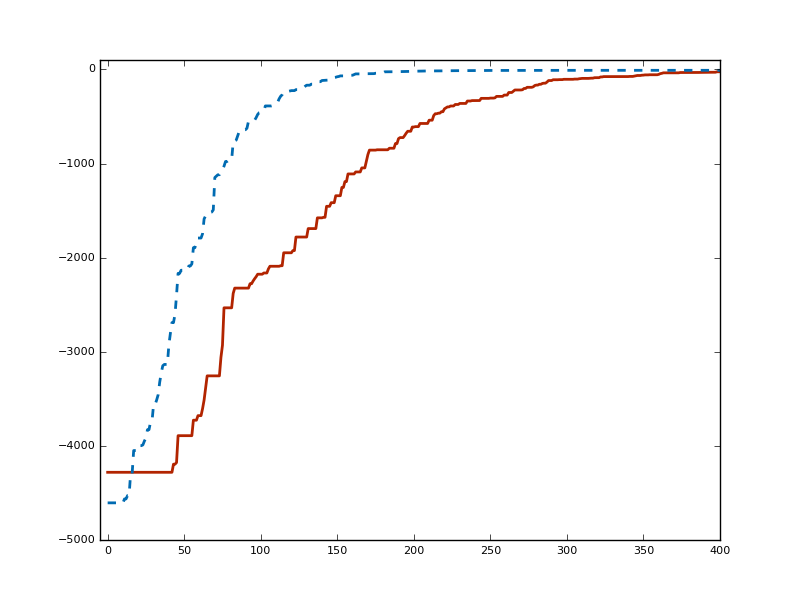
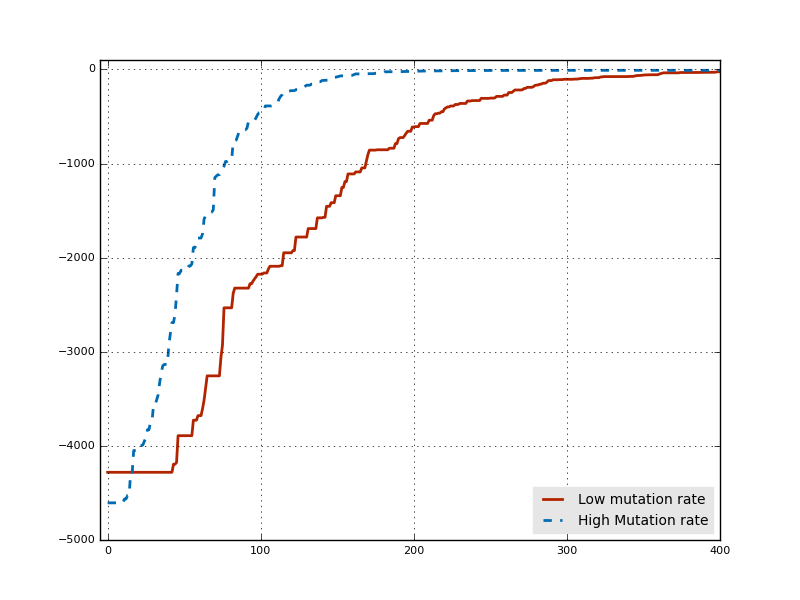
Create lab notebook where manipulations are stored

diff --git a/plot_temporal_data_3.py b/plot_temporal_data_3.py
@@ -48,4 +48,15 @@ params = {
    }
 rcParams.update(params)
 
+legend = legend(["Low mutation rate", "High Mutation rate"], loc=4);
+frame = legend.get_frame()
+frame.set_facecolor('0.9')
+frame.set_edgecolor('0.9')
+
+xticks(np.arange(0, 500, 100))
+
+# put this _before_ the calls to plot and fill_between
+#axes(frameon=0)
+grid()
+
 savefig('medians1.png')
